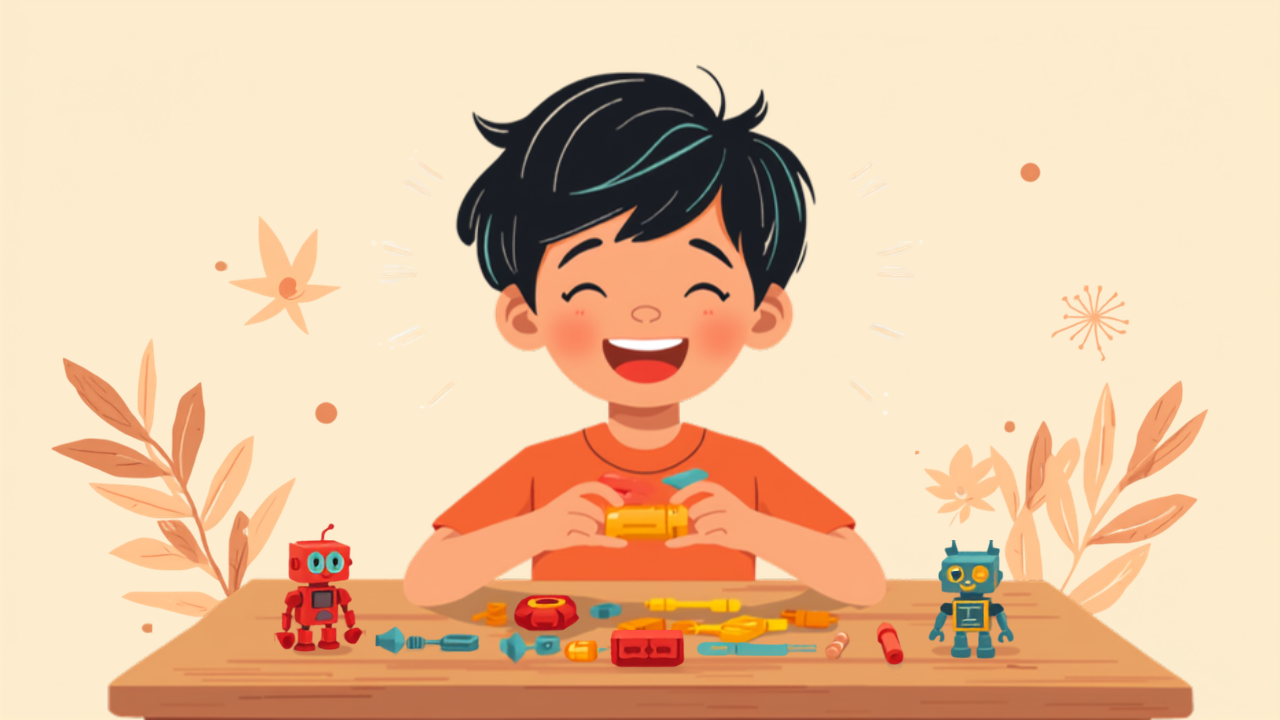
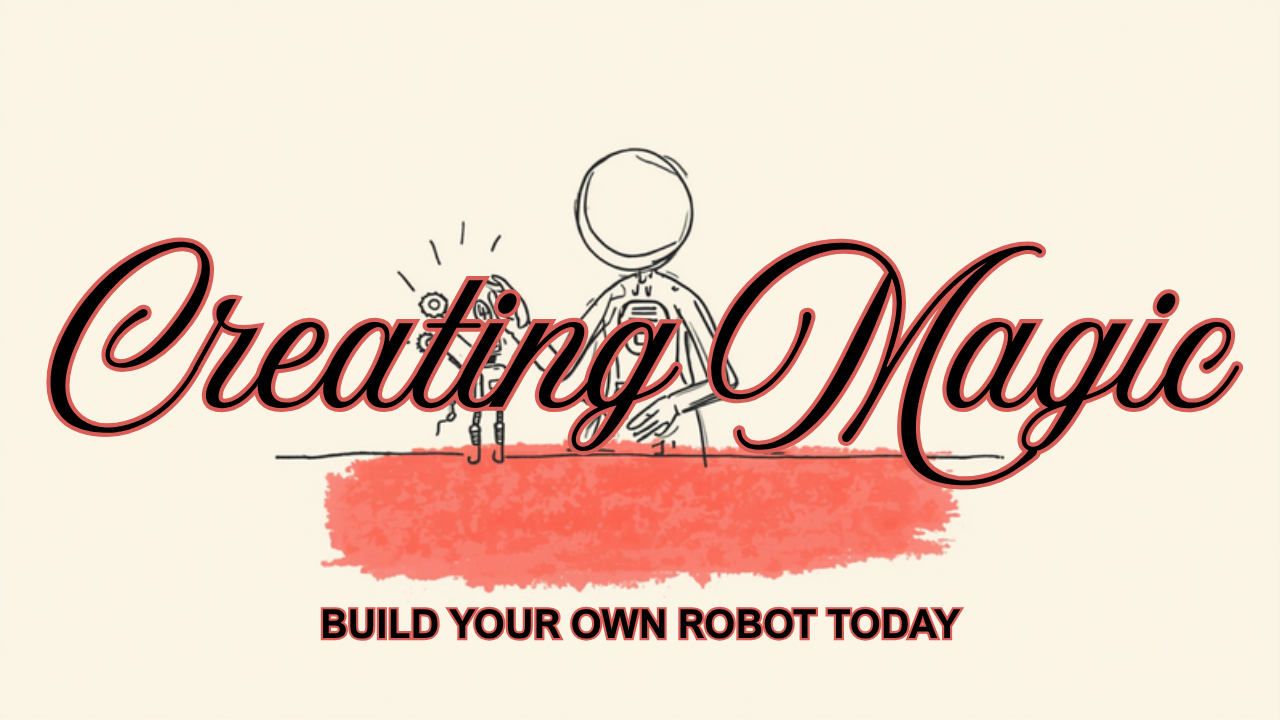
Update cover image style to minimalist line art + TokyLabs brand magenta (#FF0082)
- TASK.md Step 5.5: new fixed prompt template (doodle line art, magenta accent)
- brand/colors.md: TokyLabs 4-color palette reference
- robot-builds-brain.png: regenerated with new style (line art, pre-brand-color)

Claude-Session: https://claude.ai/code/session_01D7nnozdsMZcMuj2HjKn1SL

diff --git a/TASK.md b/TASK.md
@@ -125,10 +125,25 @@ Articles from Instagram already have a photo (Step 4). For all others (draft
 queue, Notion, ebook), generate a cover with the **Canva MCP connector**:
 
 1. `generate-design` with `design_type: "youtube_thumbnail"` (1280×720, good
-   blog-cover ratio). Prompt: describe the article topic visually — warm,
-   bright flat-illustration style for a parenting/education blog; **no readable
-   text or logos in the image**. If the draft's front matter already has a
-   `canva_design_id`, skip generation and reuse it.
+   blog-cover ratio). Use the **fixed prompt template** below, filling in
+   `[ACTION]` and `[KEY ELEMENT]` from the article topic. If the draft's front
+   matter already has a `canva_design_id`, skip generation and reuse it.
+
+**Cover image prompt template (use verbatim, substituting the bracketed parts):**
+
+> Minimalist black line art doodle on a plain, textured off-white background.
+> A main character, drawn with a single continuous fluid black line, is
+> [ACTION related to the article topic]. The composition uses the absolute
+> minimum number of strokes to define forms — essential lines only, leaving
+> vast empty space. One key element ([KEY ELEMENT]) is filled with a textured
+> magenta (#FF0082) crayon-like block of color. A final, single, broad magenta
+> (#FF0082) brush stroke defines the environment beneath them, suggesting the
+> location with extreme economy. Style is raw, quick, and conceptual; zero
+> rendering, zero shading. No readable text or logos.
+
+Brand color reference: `brand/colors.md`. The magenta `#FF0082` is TokyLabs'
+Creativity/STEAM accent — use it consistently for the filled element and ground
+stroke in every cover image.
 2. Pick the first candidate → `create-design-from-candidate` → save the
    returned design id into the draft's front matter as `canva_design_id`.
 3. `get-export-formats`, then `export-design` as PNG.

diff --git a/brand/colors.md b/brand/colors.md
@@ -1,0 +1,13 @@
+# TokyLabs Brand Colors
+
+| # | Name | Hex | Role | Usage |
+|---|------|-----|------|-------|
+| 01 | Indigo | `#30197C` | Dominant 60% | "Core" |
+| 02 | Cyan | `#41C5EE` | Secondary 30% | "Action" |
+| 03 | Magenta | `#FF0082` | Accent 10% | "Creativity/STEAM" |
+| 04 | Amber | `#FFD200` | Utility 1% | "Critical alerts" |
+
+## Cover Image Usage
+- **Line art / doodle strokes**: black
+- **Background**: plain textured off-white
+- **Key element fill + ground brush stroke**: Magenta `#FF0082` (Creativity/STEAM accent)
